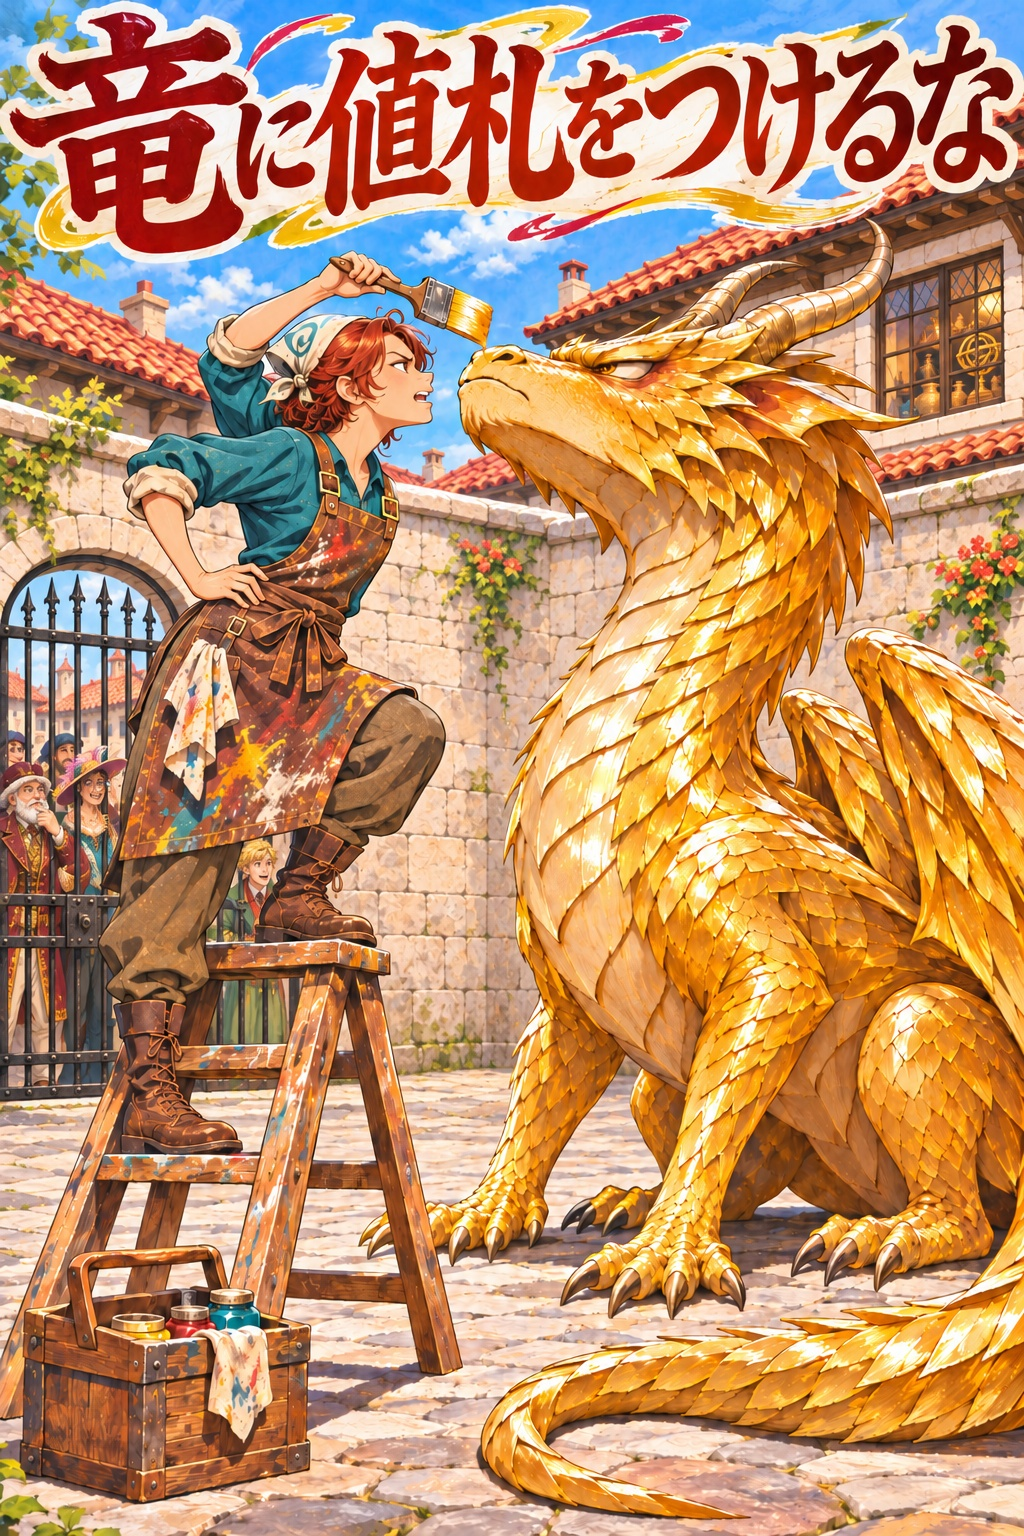
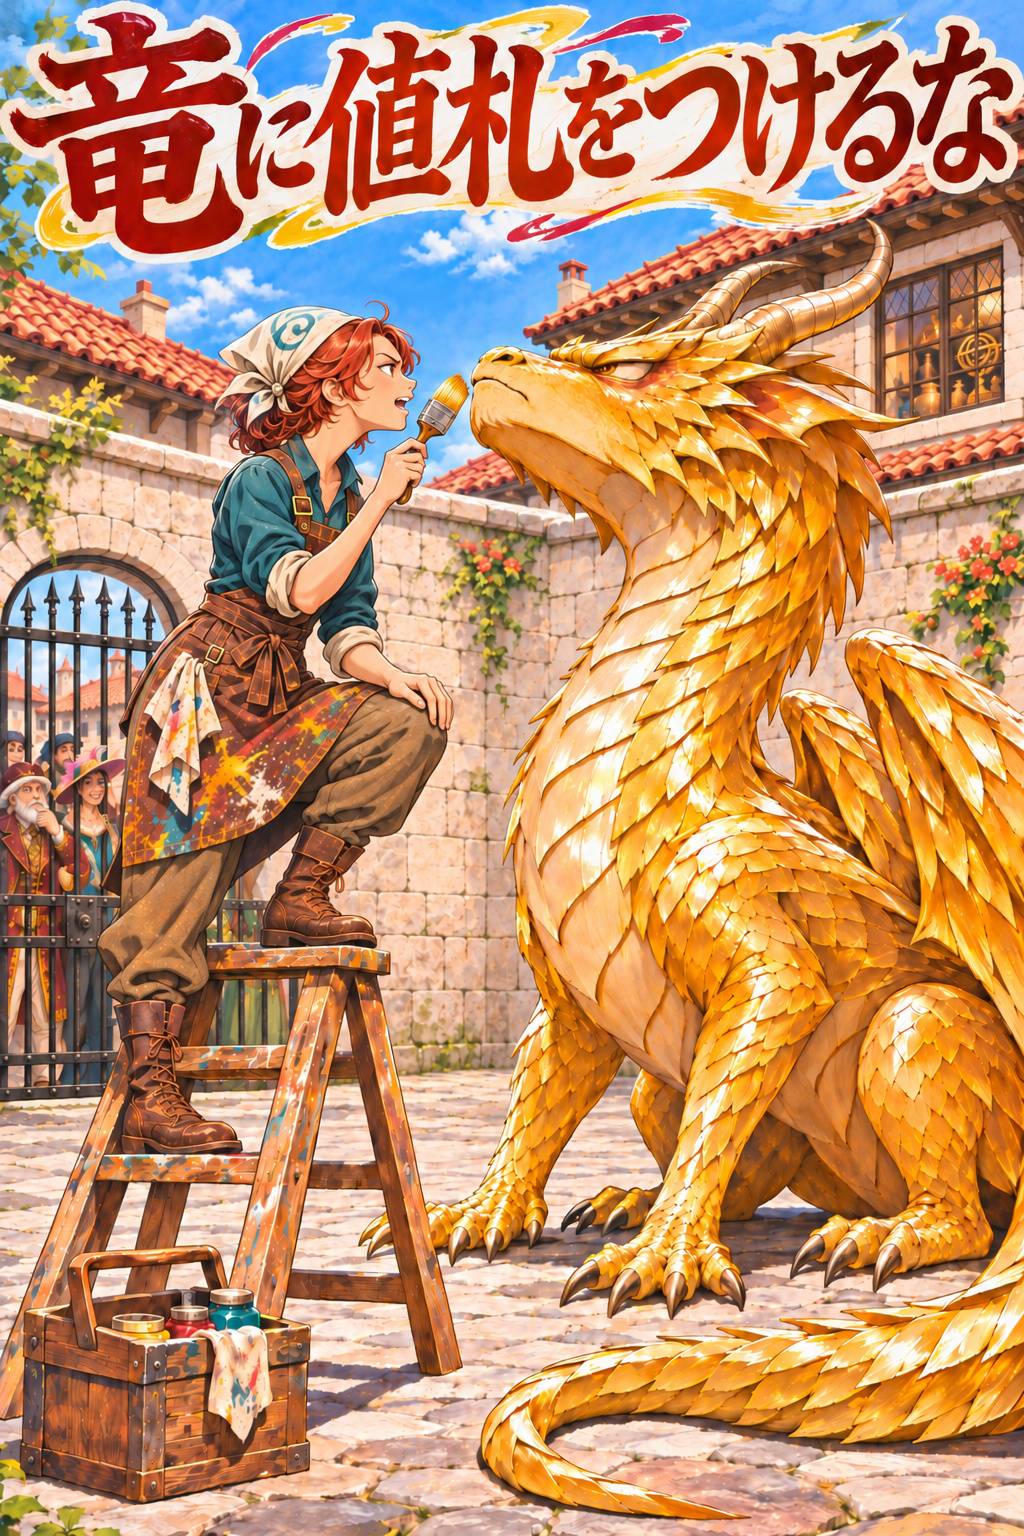
Fix painter arm anatomy on dragon story cover

diff --git a/20261106-竜に値札をつけるな/index.html b/20261106-竜に値札をつけるな/index.html
@@ -10,9 +10,9 @@
   <meta name="twitter:card" content="summary_large_image">
   <meta name="twitter:title" content="竜に値札をつけるな">
   <meta name="twitter:description" content="竜の額に三百と書いたら、一桁足せと言われた。">
-  <meta property="og:image" content="https://seagetch.github.io/chatgpt-shorts/20261106-竜に値札をつけるな/title.jpg?v=dba1c380c91bc18a">
+  <meta property="og:image" content="https://seagetch.github.io/chatgpt-shorts/20261106-竜に値札をつけるな/title.jpg?v=1990becc9308c50f">
   <meta property="og:image:alt" content="竜に値札をつけるな の表紙">
-  <meta name="twitter:image" content="https://seagetch.github.io/chatgpt-shorts/20261106-竜に値札をつけるな/title.jpg?v=dba1c380c91bc18a">
+  <meta name="twitter:image" content="https://seagetch.github.io/chatgpt-shorts/20261106-竜に値札をつけるな/title.jpg?v=1990becc9308c50f">
   <link rel="canonical" href="https://seagetch.github.io/chatgpt-shorts/20261106-竜に値札をつけるな/">
   <meta property="og:url" content="https://seagetch.github.io/chatgpt-shorts/20261106-竜に値札をつけるな/">
   <style>

diff --git a/index.html b/index.html
@@ -168,9 +168,9 @@
     </header>
     <section class="grid">
 
-      <a class="card" href="20261106-竜に値札をつけるな/index.html?v=653bfb132a888cf9">
+      <a class="card" href="20261106-竜に値札をつけるな/index.html?v=c82e31d456998f05">
         <div class="card-cover">
-          <img src="20261106-竜に値札をつけるな/title.jpg?v=dba1c380c91bc18a" alt="竜に値札をつけるな の表紙" loading="lazy">
+          <img src="20261106-竜に値札をつけるな/title.jpg?v=1990becc9308c50f" alt="竜に値札をつけるな の表紙" loading="lazy">
         </div>
         <div class="card-body">
           <h2>竜に値札をつけるな</h2>

diff --git a/20261106-竜に値札をつけるな/idea.md b/20261106-竜に値札をつけるな/idea.md
@@ -119,3 +119,9 @@
 `python -m py_compile generate_reader.py`、`python generate_reader.py`、`python scripts/check_site.py`、`git diff --check` はPASS。新作を含む39作品のHTTP取得、カタログ・ラッパー・共通reader参照、表紙バージョンの内容ハッシュ整合を検査。変更対象は新作 doc.md・idea.md・title.jpg・index.html とルート index.html・cover-versions.json の6ファイル。PNG原本は公開用JPEGとは別に保管する。
 
 ローカルHTTP検査は検査スクリプト内のサーバで完了。別プロセスのローカルサーバへのブラウザ接続は利用できず、実ブラウザの表紙・本文・ページ送り確認は公開後に実施する。このコミット作成前の段階ではリモート更新・Pages・公開URL・実ブラウザは未検証で、成功と先取りしない。
+
+## 表紙の腕の修正（2026年11月6日）
+
+ユーザーから女性の腕の不自然さを指摘。元表紙の高く上げた刷毛側の肩と上腕の接続が曖昧で、二本の手を数えるだけでは解剖学的な検証として不十分だった。今回の範囲は表紙のみ。本文・題名・キャラクター・中庭・ライトノベル的な冒険喜劇の画風を保ち、両腕がそれぞれ肩から手まで自然に追える姿勢へ画像生成で修正する。脚立、黄金の竜との掛け合い、無記入の額というネタバレを避けた方向は維持する。
+
+修正検証：一回目の生成では下げた腕が長く見えたため採用せず、二回目に肘を曲げて手を膝へ置く姿勢へ修正。最終生成原本は `exec-48ade1f9-8695-4438-a9bd-5776b717066c.png`。肩から上腕・肘・前腕・手首への接続、二本の腕と手、手足の比率を実画像で再確認。上げた刷毛側は自然な屈曲、反対側は膝へ手を置く短い前腕となり、元の頭上の不自然な袖と腕は残っていない。画像生成による個別の修正版で、分割画像・プログラム描画は使っていない。ジャンル視認性・本文整合・正確な題名・ネタバレ回避はPASS。本文未変更。PNGからJPEGへの符号化後、生成器・全39作品のHTTP/asset-version検査・diff検査PASS。公開配信の検証はこの記録のコミット後に実施する。
